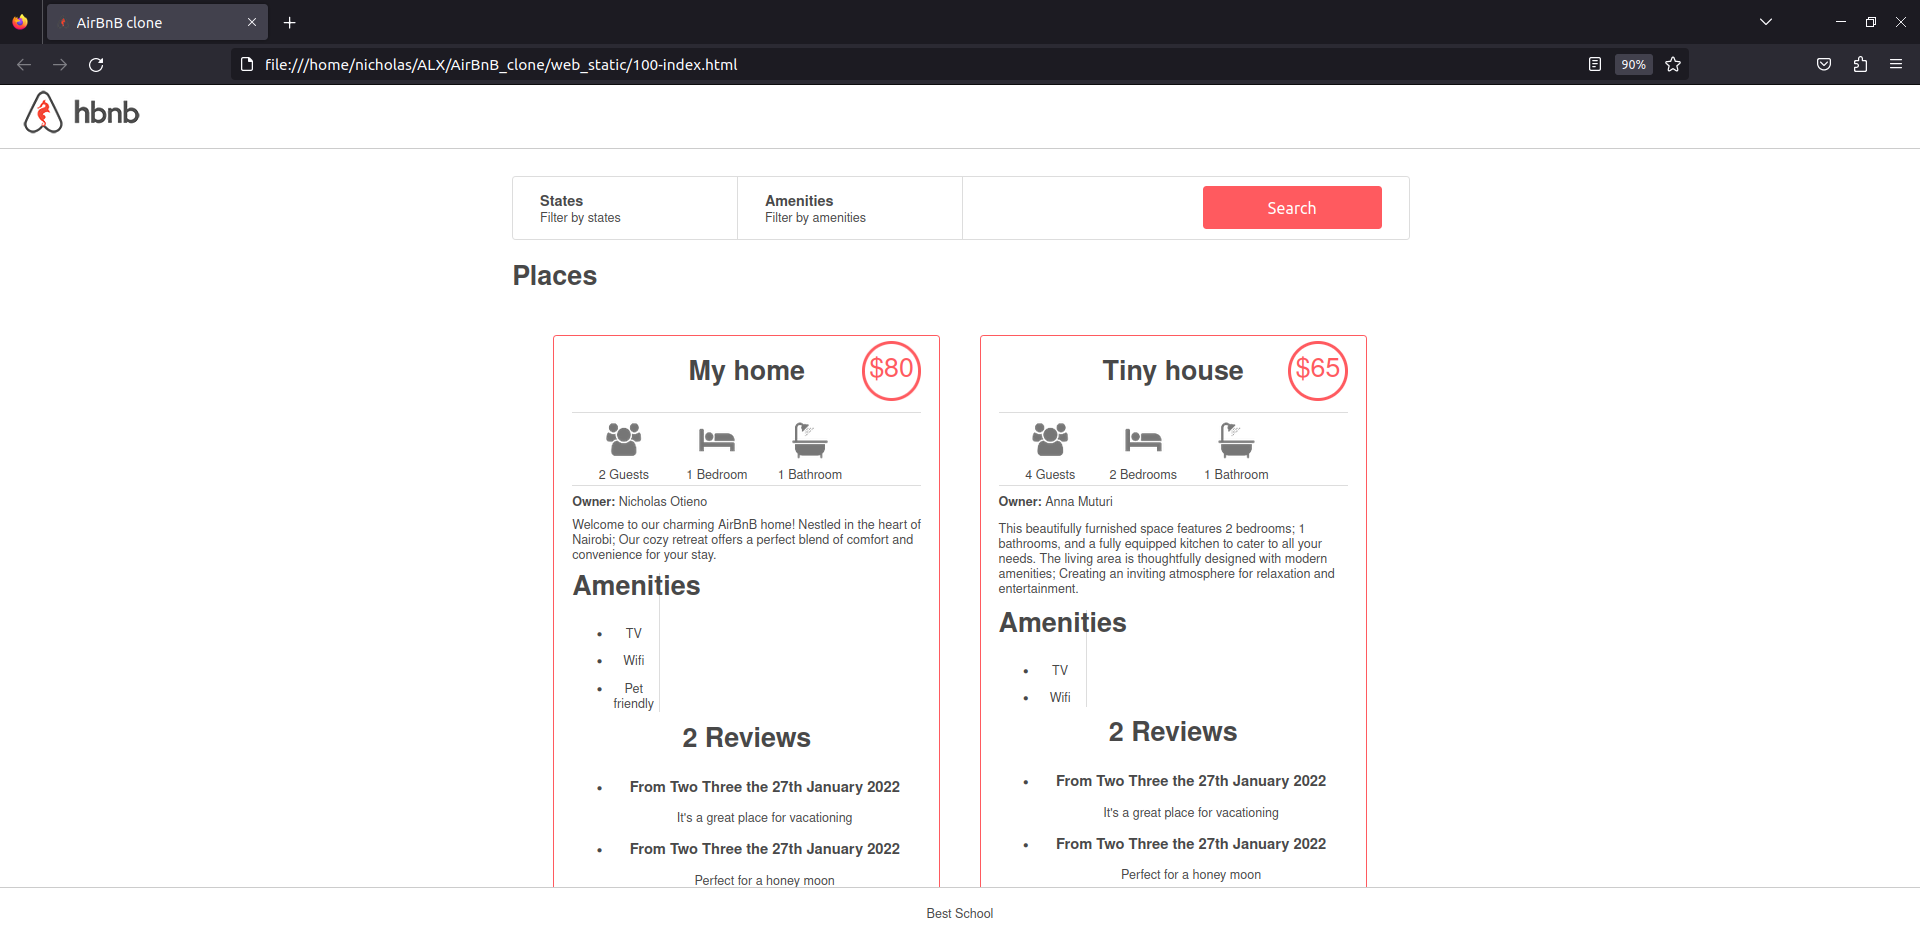
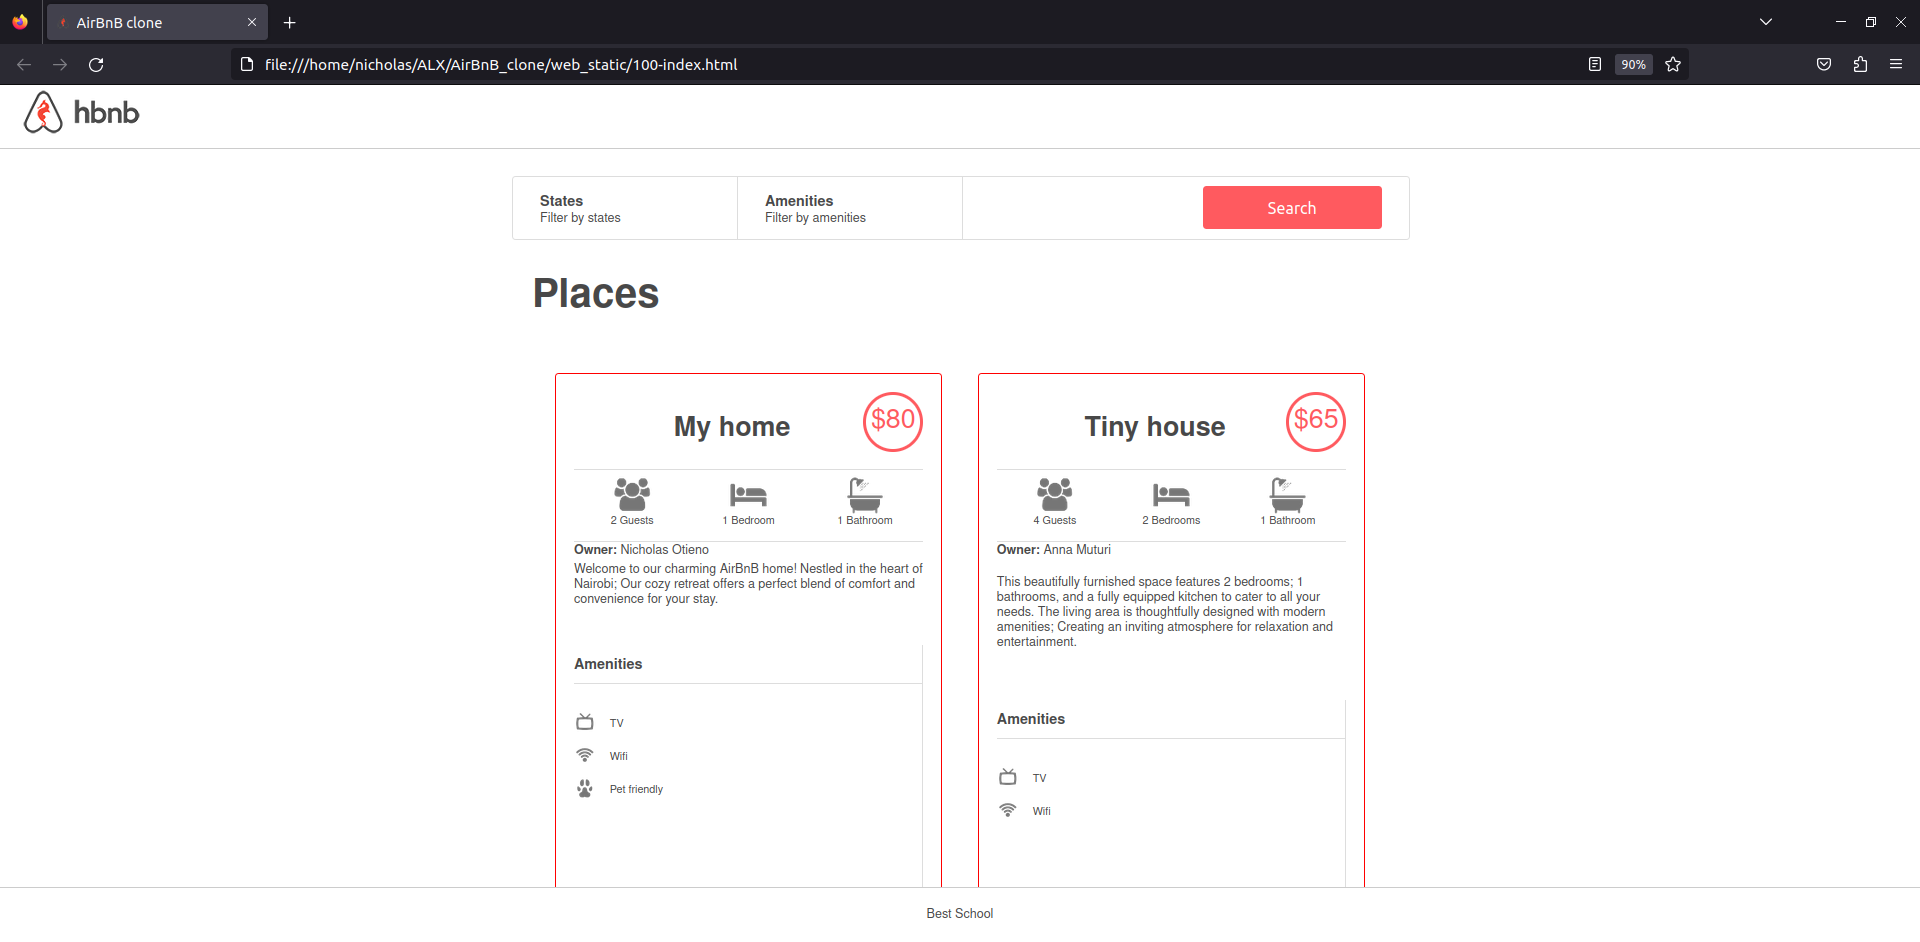
task100

diff --git a/web_static/100-index.html b/web_static/100-index.html
@@ -8,7 +8,7 @@
     <link rel="stylesheet" href="styles/3-footer.css" type="text/css">
     <link rel="tab icon" href="images/tab_logo.png" type="image/png">
     <link rel="stylesheet" href="styles/6-filters.css" type="text/css">
-    <link rel="stylesheet" href="styles/8-places.css" type="text/css">
+    <link rel="stylesheet" href="styles/100-places.css" type="text/css">
 </head>
 
 <body>
